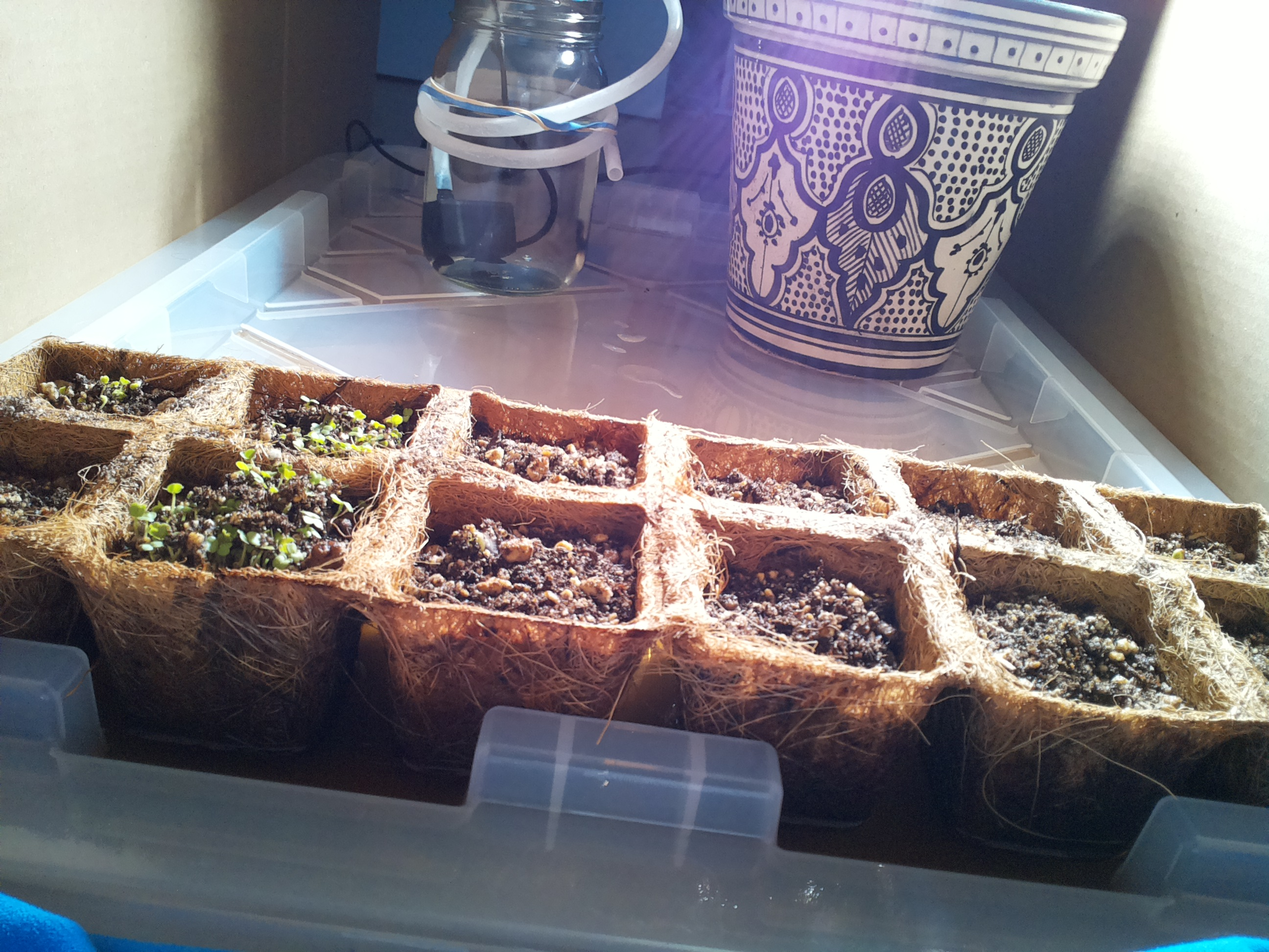
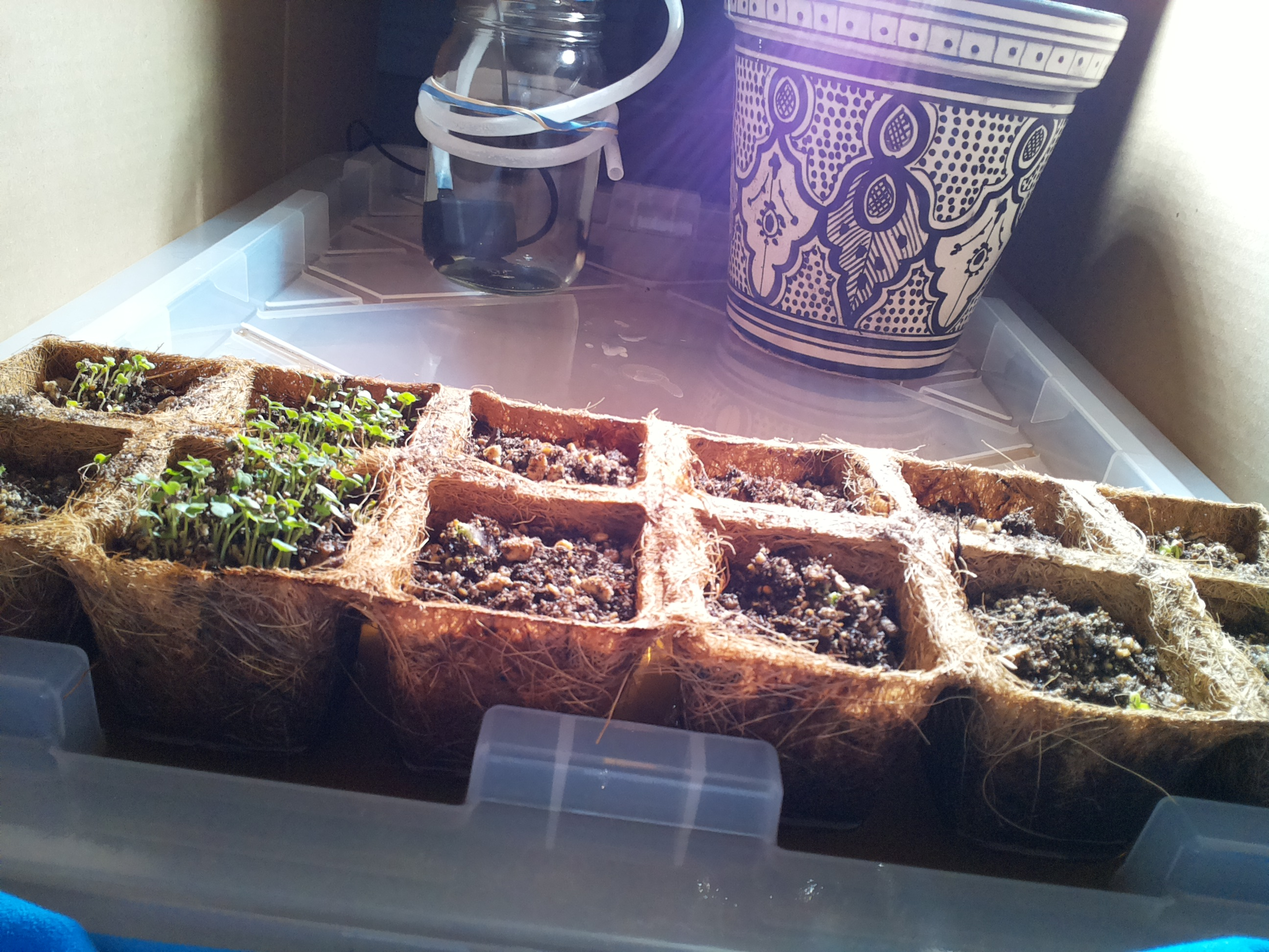
mirror sync 2026-08-26 19:30

diff --git a/home/bubbles/farmer-claude/JOURNAL.md b/home/bubbles/farmer-claude/JOURNAL.md
@@ -64,3 +64,10 @@
 - Soil: germinated cells dark/damp; middle-right cells medium with some pale sun/lamp-lit patches — no alarming dry-down since 07:12. Residual water visible in lid channels.
 - Jar ~40-45%, pump submerged, tube in place. No mold/pests/tipping. Lamp on — correct.
 - Watering: none (observe-only). 4s of 60s daily cap used. Evening 19:22 pulse still planned unless soil looks dark. No changes to standing orders.
+
+### 2026-08-26 19:22 — evening check-in (cron)
+- Photo: germination advancing (day 2). Dense green mat in the front-left cell, sparser sprouts in 2-3 neighbors, and first tiny sprouts now visible in a couple of middle/right cells. No mold/pests/tipping.
+- Soil: medium — germinated cells damp-ish, ungerminated cells medium with crumbly surface; not saturated, no alarming dry-down.
+- Lamp: on — correct for photoperiod.
+- Watering: 4s pulse per standing order 2 (8s of 60s daily cap used; water.py OK, pump off). Post-pulse photo shows fresh water sheeting across the lid channels toward the tray — bottom-feed path working.
+- Jar level trend is the watch item: ~60% (8/24) → ~50% (8/25) → ~40-45% (8/26 midday) → looks ~30-35% after tonight's pulse. Still comfortably above the pump body, but at ~8s/day that's maybe 3-4 more days of pulses. Keep skipping aggressively when soil is dark; re-estimate level each check-in and invoke the EMERGENCY-reservoir protocol from standing order 2 when it nears the pump body.
